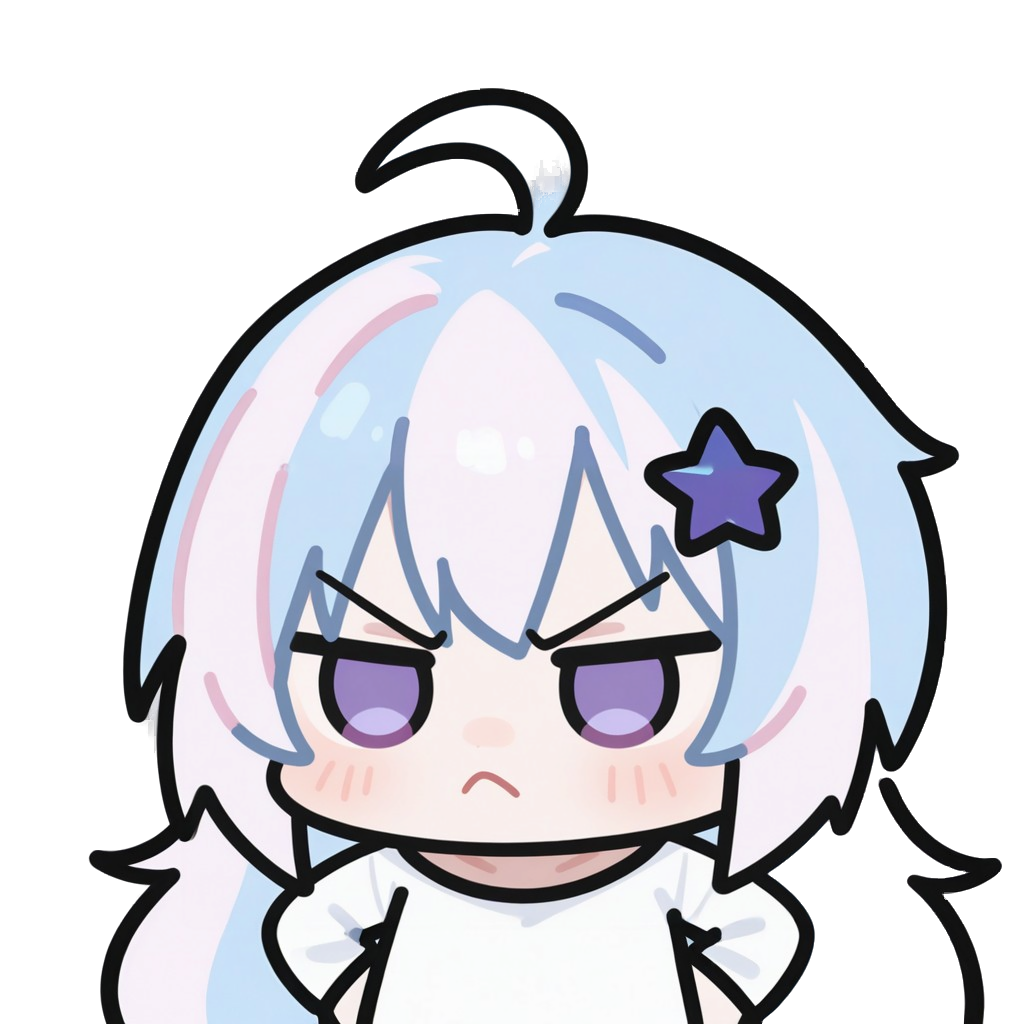
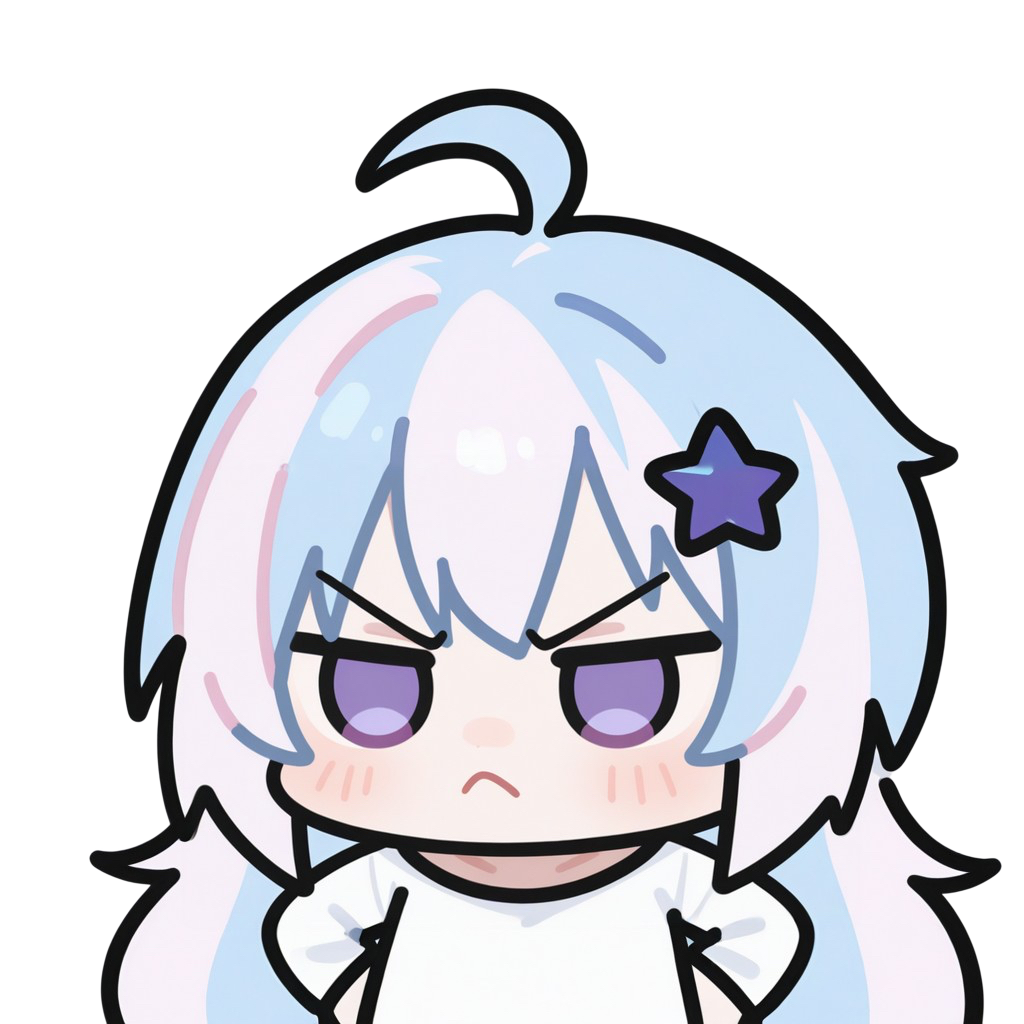
:bento: Update reactions images

diff --git a/lib/widgets/post/post_item.dart b/lib/widgets/post/post_item.dart
@@ -31,7 +31,14 @@ import 'package:share_plus/share_plus.dart';
 import 'package:styled_widget/styled_widget.dart';
 import 'package:super_context_menu/super_context_menu.dart';
 
-const kAvailableStickers = {'angry', 'clap', 'confuse', 'pray', 'thumb_up'};
+const kAvailableStickers = {
+  'angry',
+  'clap',
+  'confuse',
+  'pray',
+  'thumb_up',
+  'party',
+};
 
 bool _getReactionImageAvailable(String symbol) {
   return kAvailableStickers.contains(symbol);
